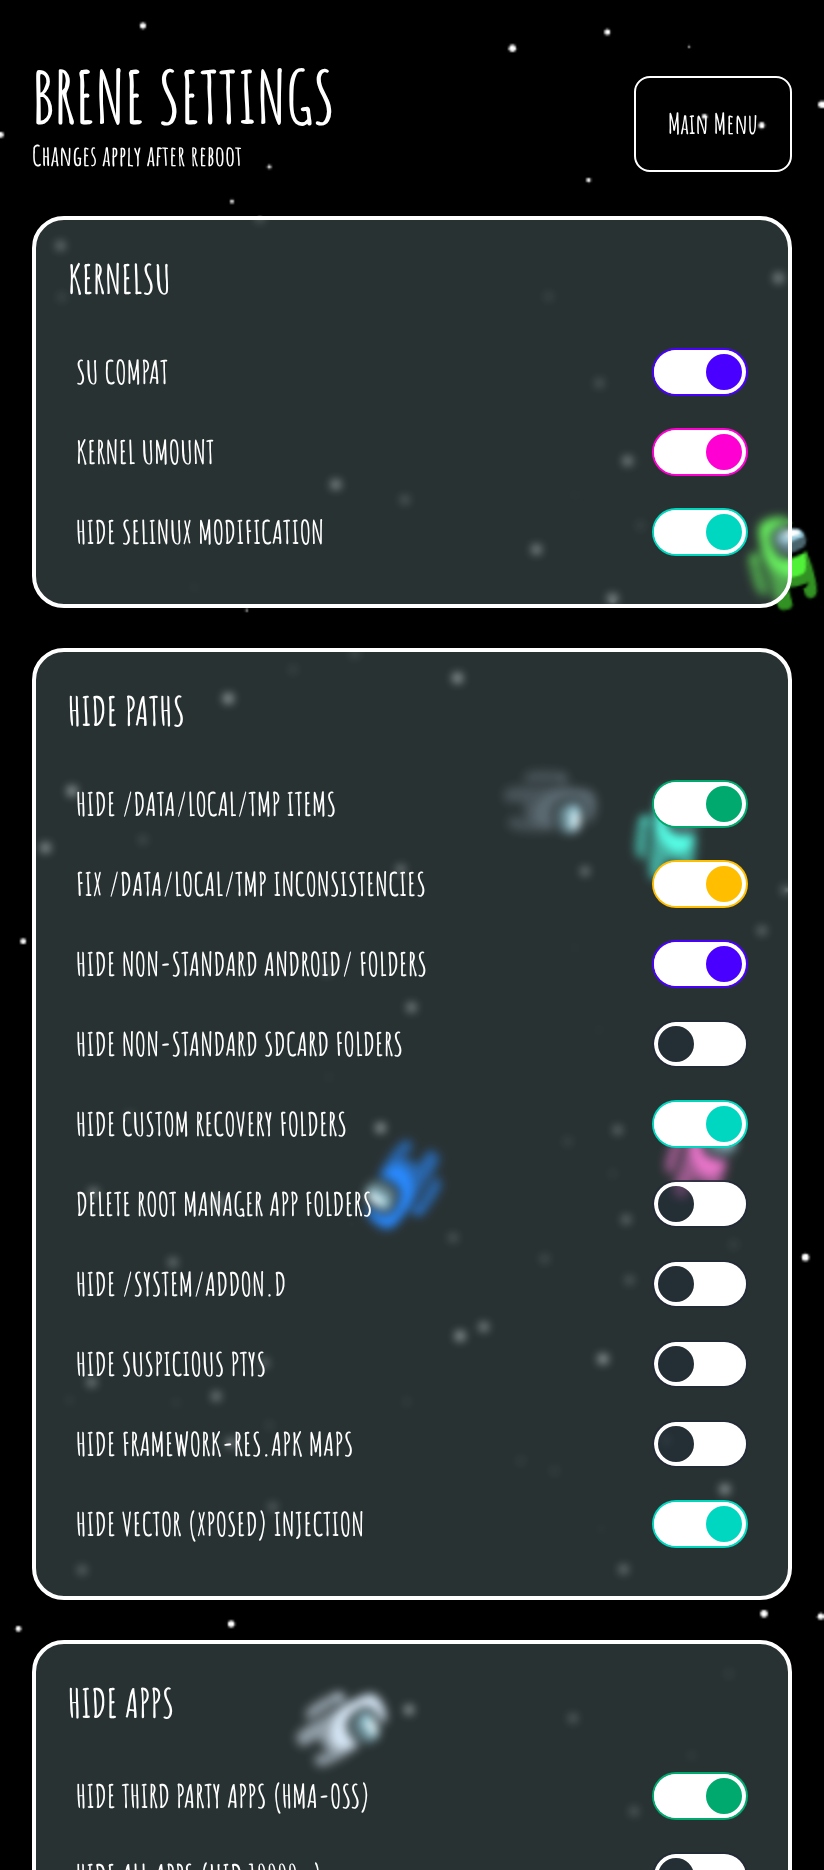
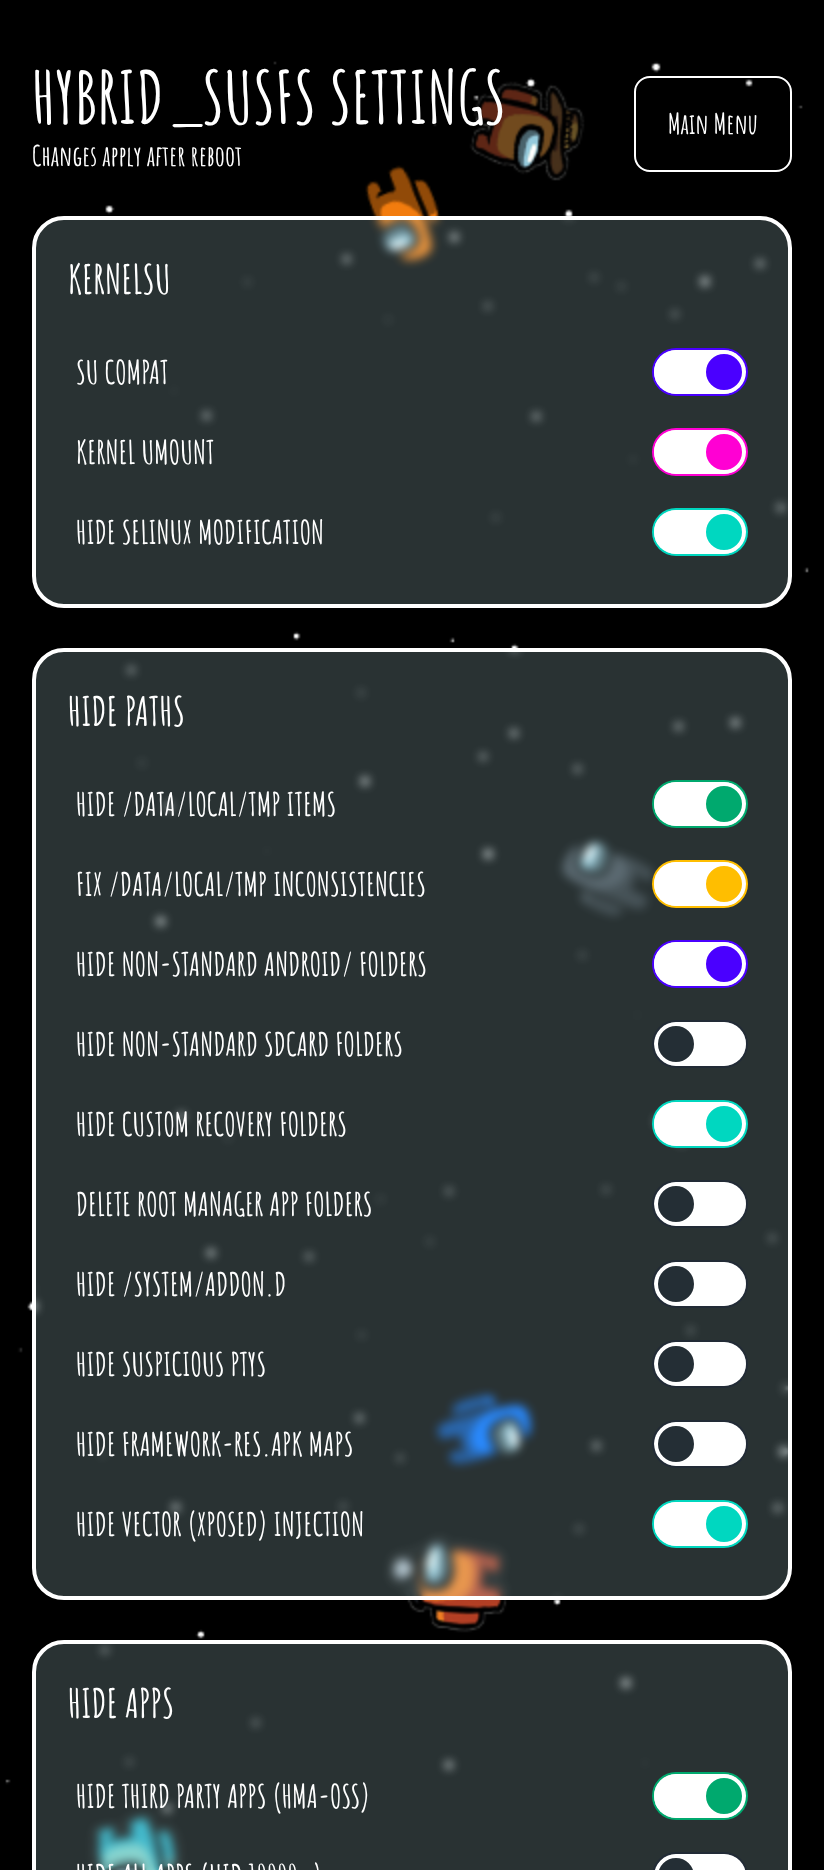
feat: ganti tulisan Brene/SusFS di menu dan modul jadi hybrid_susfs

diff --git a/module/webroot/index.html b/module/webroot/index.html
@@ -91,8 +91,7 @@
 		<div class="pb-14" data-router-view="home">
 			<div class="flex justify-between items-center mx-auto ml-4 pt-5 mr-4">
 				<div class="flex flex-col">
-					<h3 class="text-2xl text-white font-amongus2">HYBRID</h3>
-					<h1 class="font-bold text-6xl text-white font-amongus">SUSFS A</h1>
+					<h1 class="font-bold text-white font-amongus" style="font-size:2.4rem;line-height:1;white-space:nowrap">HYBRID_SUSFS A</h1>
 					<h3 class="text-2xl text-balance text-white" data-i18n="app_title">WebUI menu</h3>
 					<h4 id="susfs_version" class="text-base text-balance text-white font-amongus2"></h4>
 				</div>
@@ -146,7 +145,7 @@
 					<div class="stat p-0 mt-0">
 						<div class="form-control">
 							<label class="label cursor-pointer">
-							<span class="text-white text-base" data-i18n="susfs_log_label">SUSFS Logs</span>
+							<span class="text-white text-base" data-i18n="susfs_log_label">hybrid_susfs Logs</span>
 							<input type="checkbox" id="susfs_log" class="toggle toggle-md toggle-primary" checked="checked" />
 							</label>
 						</div>
@@ -175,9 +174,9 @@
 							</div>
 						</div>
 					</div>
-					<a href="custom.html" class="text-white"><button class="btn btn-md btn-outline text-base border-white mt-2 text-white" data-i18n="susfs_settings_label">custom susfs settings</button></a>
-					<a href="brene.html" class="text-white"><button class="btn btn-md btn-outline text-base border-white mt-2 text-white" data-i18n="brene_settings_label">brene settings</button></a>
-					<a href="status.html" class="text-white hidden" id="susfs_kernel_status"><button class="btn btn-md btn-outline text-base border-white mt-2 text-white" data-i18n="susfs_kernel_status_label">SUSFS Kernel Status</button></a>
+					<a href="custom.html" class="text-white"><button class="btn btn-md btn-outline text-base border-white mt-2 text-white" data-i18n="susfs_settings_label">custom hybrid_susfs settings</button></a>
+					<a href="brene.html" class="text-white"><button class="btn btn-md btn-outline text-base border-white mt-2 text-white" data-i18n="brene_settings_label">hybrid_susfs settings</button></a>
+					<a href="status.html" class="text-white hidden" id="susfs_kernel_status"><button class="btn btn-md btn-outline text-base border-white mt-2 text-white" data-i18n="susfs_kernel_status_label">hybrid_susfs Kernel Status</button></a>
 				</div>
 				<div id="sus_su_154" class="min-w-full sm:min-w-[400px]">
 				  <div class="stats flex flex-col divide-x-0 divide-y-0 white:bg-cyan-100/20 bg-cyan-100/20 dark:bg-black/20 mt-5 border-2 p-4 border-white backdrop-blur-[2.5px]">

diff --git a/module/webroot/brene.html b/module/webroot/brene.html
@@ -25,7 +25,7 @@
 		<div class="pt-3 pb-14">
 			<div class="flex justify-between items-center mx-auto ml-4 pt-4 mr-4">
 				<div class="flex flex-col">
-					<div class="font-bold text-4xl text-white font-amongus2 uppercase" data-i18n="brene_settings_label">brene settings</div>
+					<div class="font-bold text-4xl text-white font-amongus2 uppercase" data-i18n="brene_settings_label">hybrid_susfs settings</div>
 					<div class="text-white text-sm font-amongus2" data-i18n="brene_reboot_label">Changes apply after reboot</div>
 				</div>
                 <div>
